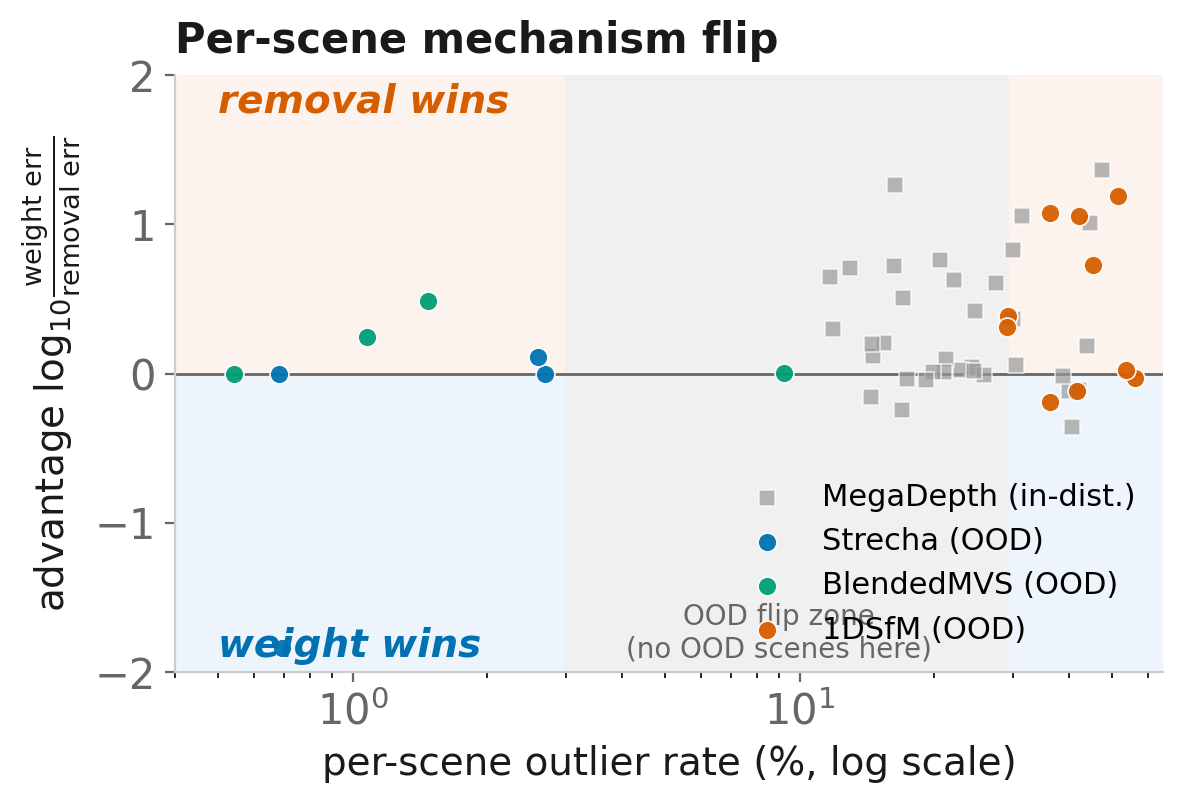
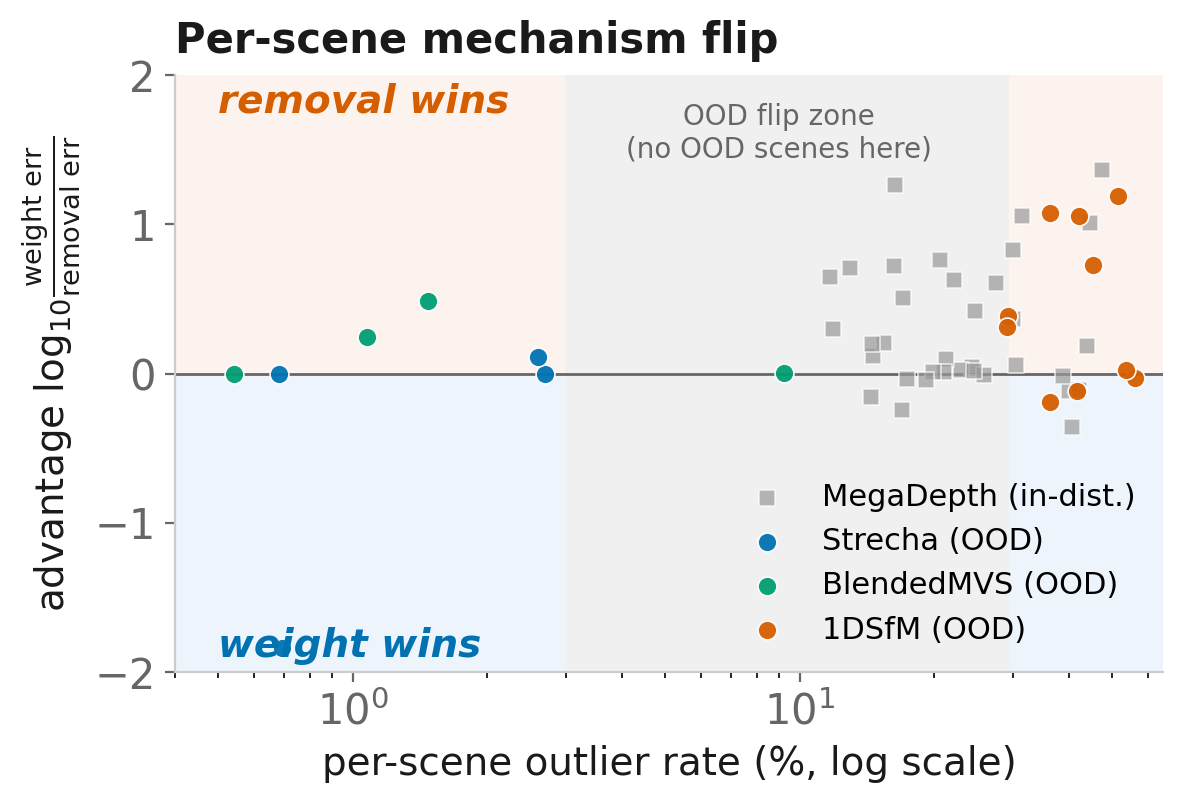
Per-scene figure: flip-zone annotation moved into the band, clearing legend overlap (visually verified)
Claude-Session: https://claude.ai/code/session_01Tev8UFDgcRH3PtgM6sFBxN

Changed region(s): [[0.5478, 0.7472, 0.7912, 0.8406], [0.5478, 0.1245, 0.7912, 0.2179]]

diff --git a/code/make_fig4_perscene.py b/code/make_fig4_perscene.py
@@ -63,7 +63,7 @@ ax.set_xlabel("per-scene outlier rate (%, log scale)",fontsize=14,color=INK)
 ax.set_ylabel(r"advantage $\log_{10}\!\frac{\mathrm{weight\ err}}{\mathrm{removal\ err}}$",fontsize=14,color=INK)
 ax.text(0.5,1.75,"removal wins",fontsize=14,color="#D55E00",style="italic",fontweight="bold")
 ax.text(0.5,-1.9,"weight wins",fontsize=14,color="#0072B2",style="italic",fontweight="bold")
-ax.text(9,-1.9,"OOD flip zone\n(no OOD scenes here)",ha="center",fontsize=10,color=MUTED)
+ax.text(9,1.45,"OOD flip zone\n(no OOD scenes here)",ha="center",fontsize=10,color=MUTED)
 for sp in ["top","right"]: ax.spines[sp].set_visible(False)
 for sp in ["left","bottom"]: ax.spines[sp].set_color("#cccccc")
 ax.tick_params(colors=MUTED)
